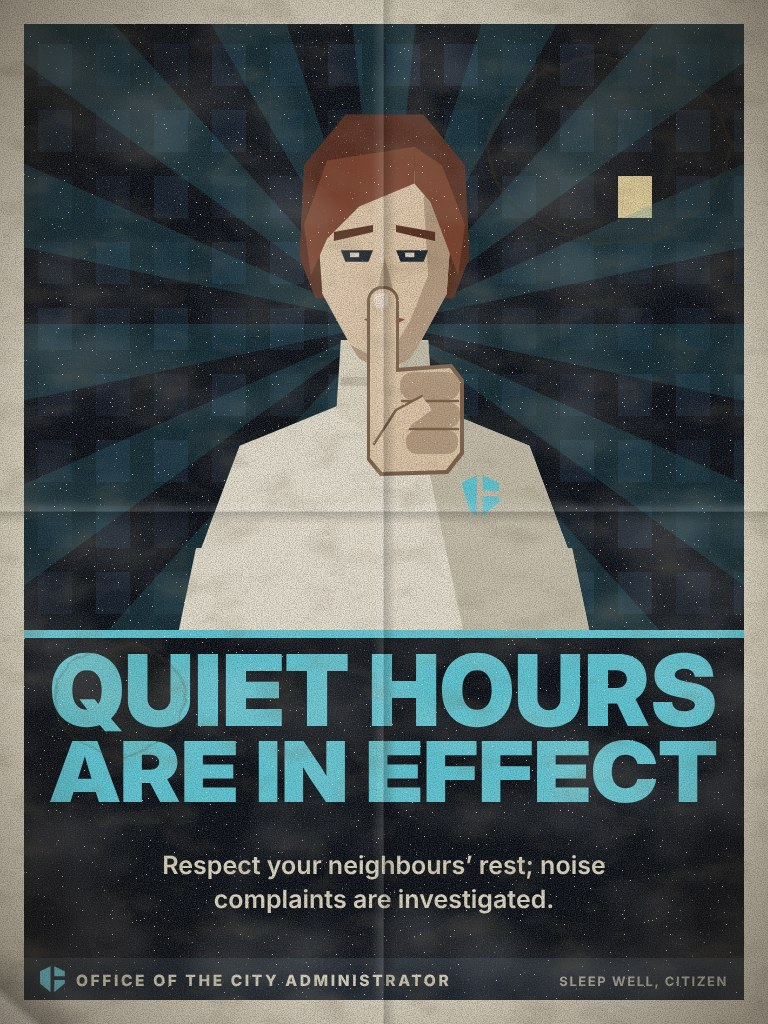
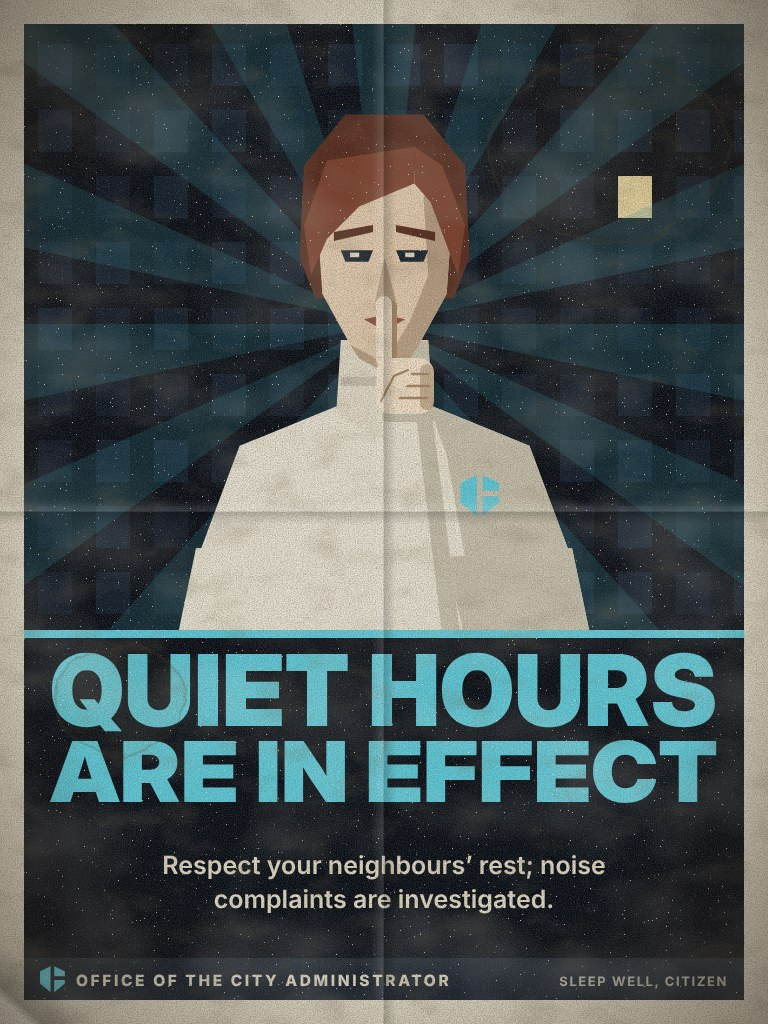
The quiet hours poster: her hand redrawn small and flat, a slim finger across her lips
Claude-Session: https://claude.ai/code/session_01Y8SXQmVgVp7ZamRAFg58MA

Changed region(s): [[0.4688, 0.2812, 0.625, 0.625]]

diff --git a/_dev/posters/dreams7.js b/_dev/posters/dreams7.js
@@ -85,13 +85,12 @@ ART.dream_shh = () => {
   for (let x = 14; x < 720; x += 58) for (let y = 20; y < 600; y += 66) s += R(x, y, 34, 42, x === 594 && y === 152 ? C.warm : q() < 0.5 ? '#111c2a' : '#0e1622');
   s += rays(360, 300, 30, 700, C.cyanD, 0, 360, 'opacity=".22"');
   s += P('M172,524 L548,524 L566,610 L154,610Z', KNIT) + P('M420,524 L548,524 L566,610 L440,610Z', KNITD) + G('translate(165,40) scale(2.3)', adminBust());
-  // her finger to her lips: the hand seen from its side, the finger at its edge, the others curled
-  const OUT = '#7a5f48';
-  s += P('M352,446 L432,440 L480,610 L360,610Z', KNIT) + P('M404,442 L432,440 L480,610 L440,610Z', KNITD);
-  s += R(343, 262, 32, 110, OUT, 'rx="15"') + P('M343,346 L428,340 L440,356 L440,430 L424,450 L356,452 L343,436Z', OUT);
-  s += R(346, 265, 26, 110, SKIN, 'rx="12"') + R(350, 269, 14, 15, '#f0e2cc', 'rx="5"') + P('M346,350 L426,344 L436,358 L436,428 L422,446 L358,448 L346,434Z', SKIN);
-  s += R(376, 348, 60, 28, SKIND, 'rx="13"') + R(380, 378, 56, 26, SKIND, 'rx="12"') + R(382, 406, 52, 24, SKIND, 'rx="11"') + L('M378,377 h56 M382,405 h52', OUT, 2.5);
-  s += P('M350,420 L372,386 L398,372 L408,386 L386,402 L372,436Z', SKIN) + L('M350,420 L372,386 L398,372', OUT, 2.5);
+  // her finger to her lips: a small hand seen from its side, flat shapes, no outline
+  const HAND = '#eedcc3', HANDD = '#a3835f';
+  s += P('M362,392 L408,390 L436,610 L374,610Z', KNIT) + P('M392,391 L408,390 L436,610 L418,610Z', KNITD) + R(358, 386, 54, 12, KNITD, 'rx="5"');
+  s += R(357, 275, 16, 70, HANDD, 'rx="7"') + R(352, 272, 16, 72, HAND, 'rx="8"');
+  s += R(352, 334, 58, 56, HAND, 'rx="15"') + R(396, 340, 14, 46, HANDD, 'rx="7" opacity=".55"');
+  s += L('M374,350 h30 M374,362 h31 M374,374 h29', HANDD, 2.5) + P('M356,378 L370,352 L384,346 L390,354 L378,366 L370,386Z', HAND) + L('M357,377 L370,352 L384,346', HANDD, 2.2);
   return s;
 };
 
